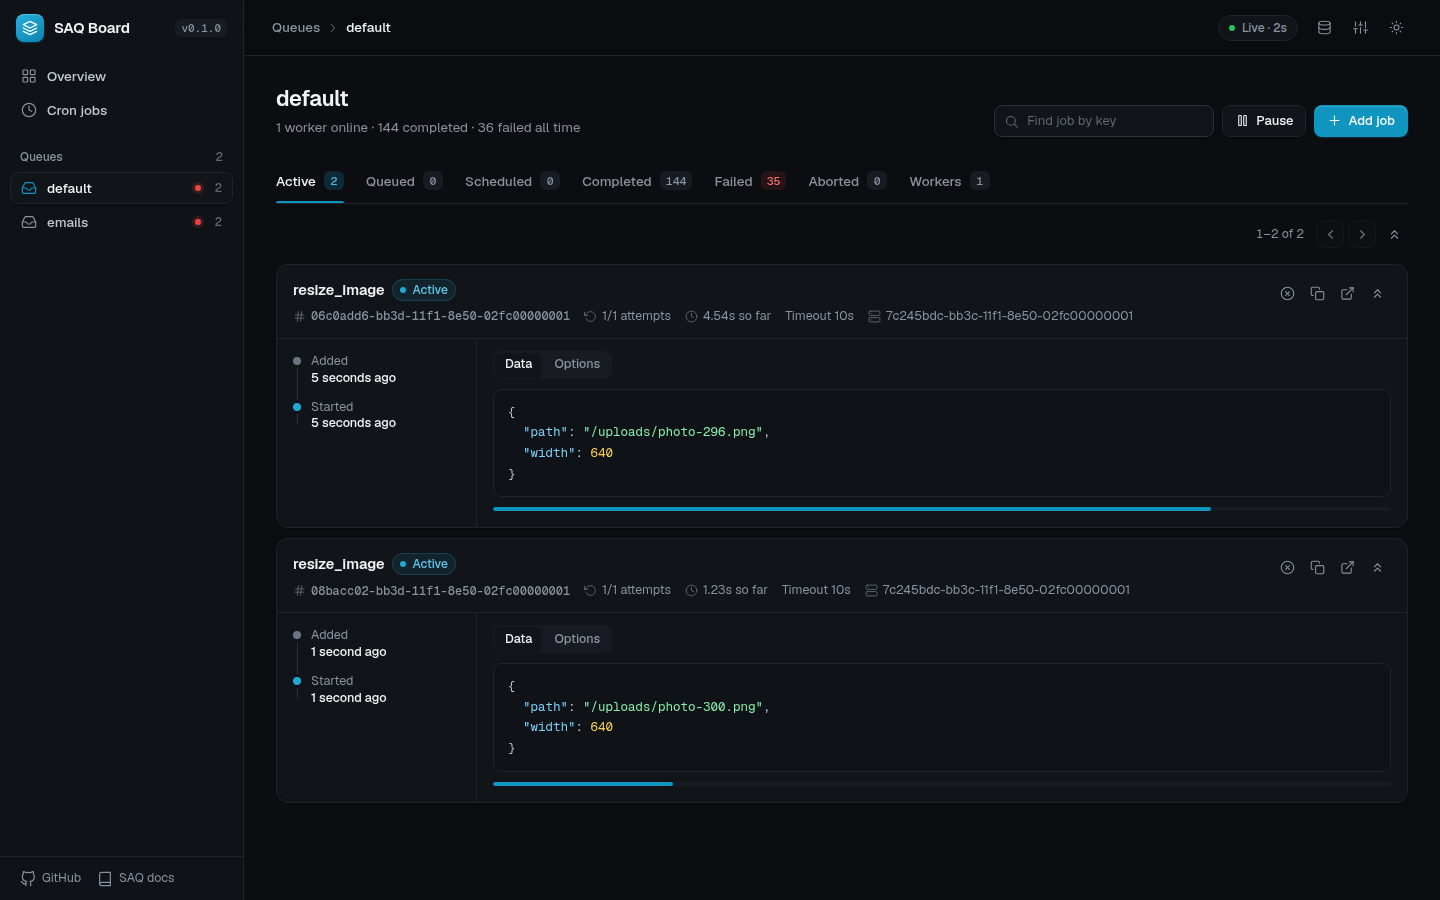
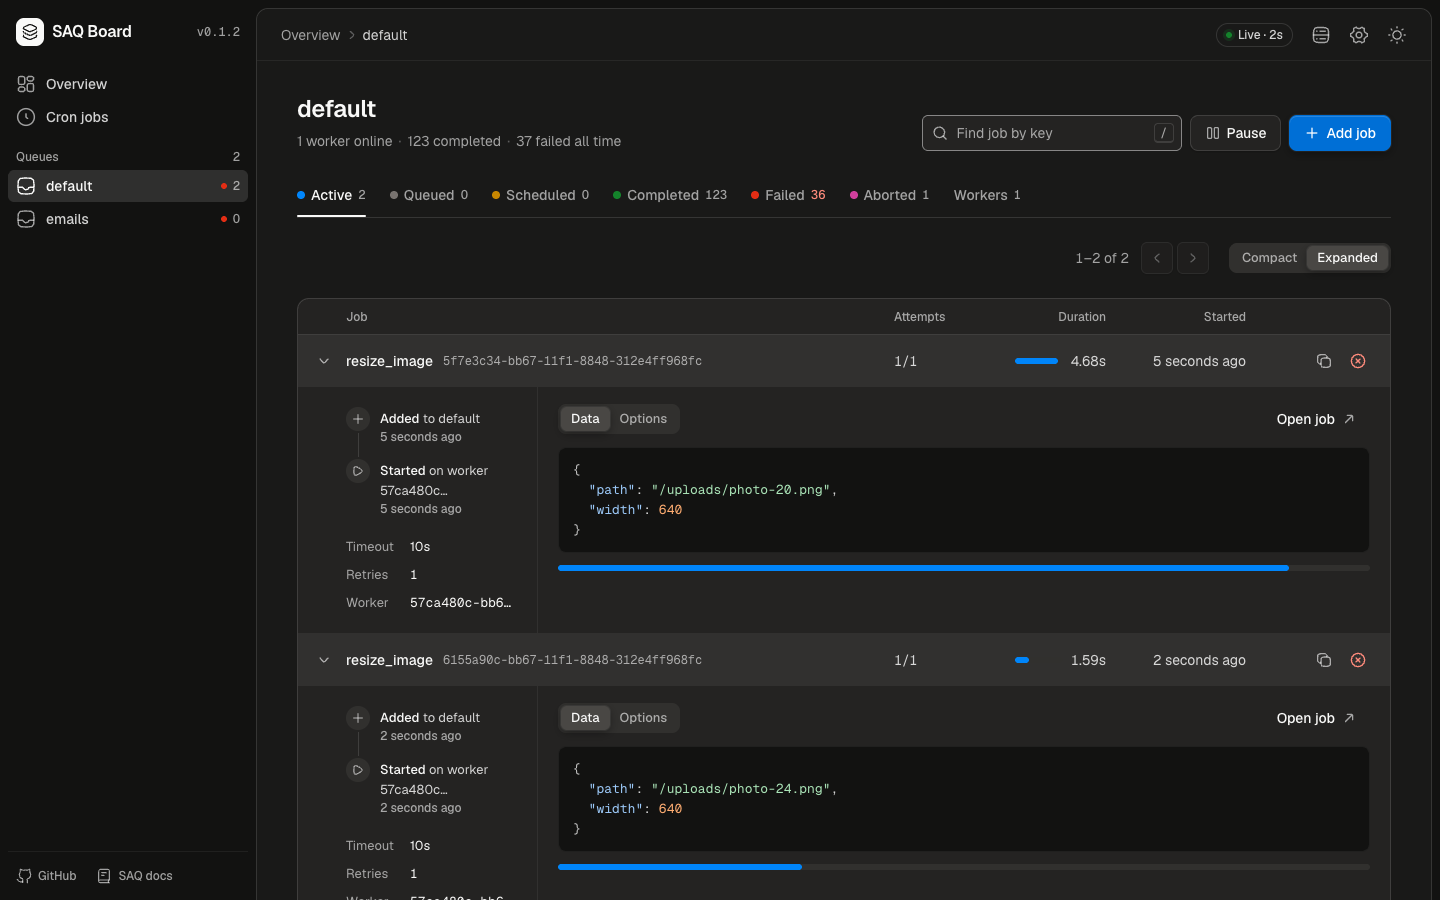
chore: updated README
Update __init__.py

diff --git a/saq_board/__init__.py b/saq_board/__init__.py
@@ -6,7 +6,7 @@ from __future__ import annotations
 
 import typing as t
 
-__version__ = "0.1.2"
+__version__ = "0.1.3"
 
 from saq_board.cron import CronJob  # noqa: E402
 from saq_board.worker import track, with_board  # noqa: E402

diff --git a/README.md b/README.md
@@ -13,7 +13,7 @@ Inspired by [bull-board](https://github.com/felixmosh/bull-board). It extends SA
 ## Features
 
 - **Queues**: overview with live counts, per-queue tabs for active, queued, scheduled, completed, failed and aborted jobs, plus workers.
-- **Jobs**: bull-board style cards with a timeline, data, result, error and options tabs, progress bars, and retry, abort, run now (promote), duplicate and remove actions.
+- **Jobs**: rows that expand in place to a timeline and data, result, error and options views, with progress bars, and retry, abort, run now (promote), duplicate and remove actions. Each job also has its own page.
 - **Bulk actions**: retry all, clean all, promote all, abort all.
 - **Pause and resume** a queue.
 - **Add jobs** from the dashboard, picking from the functions your workers register.
